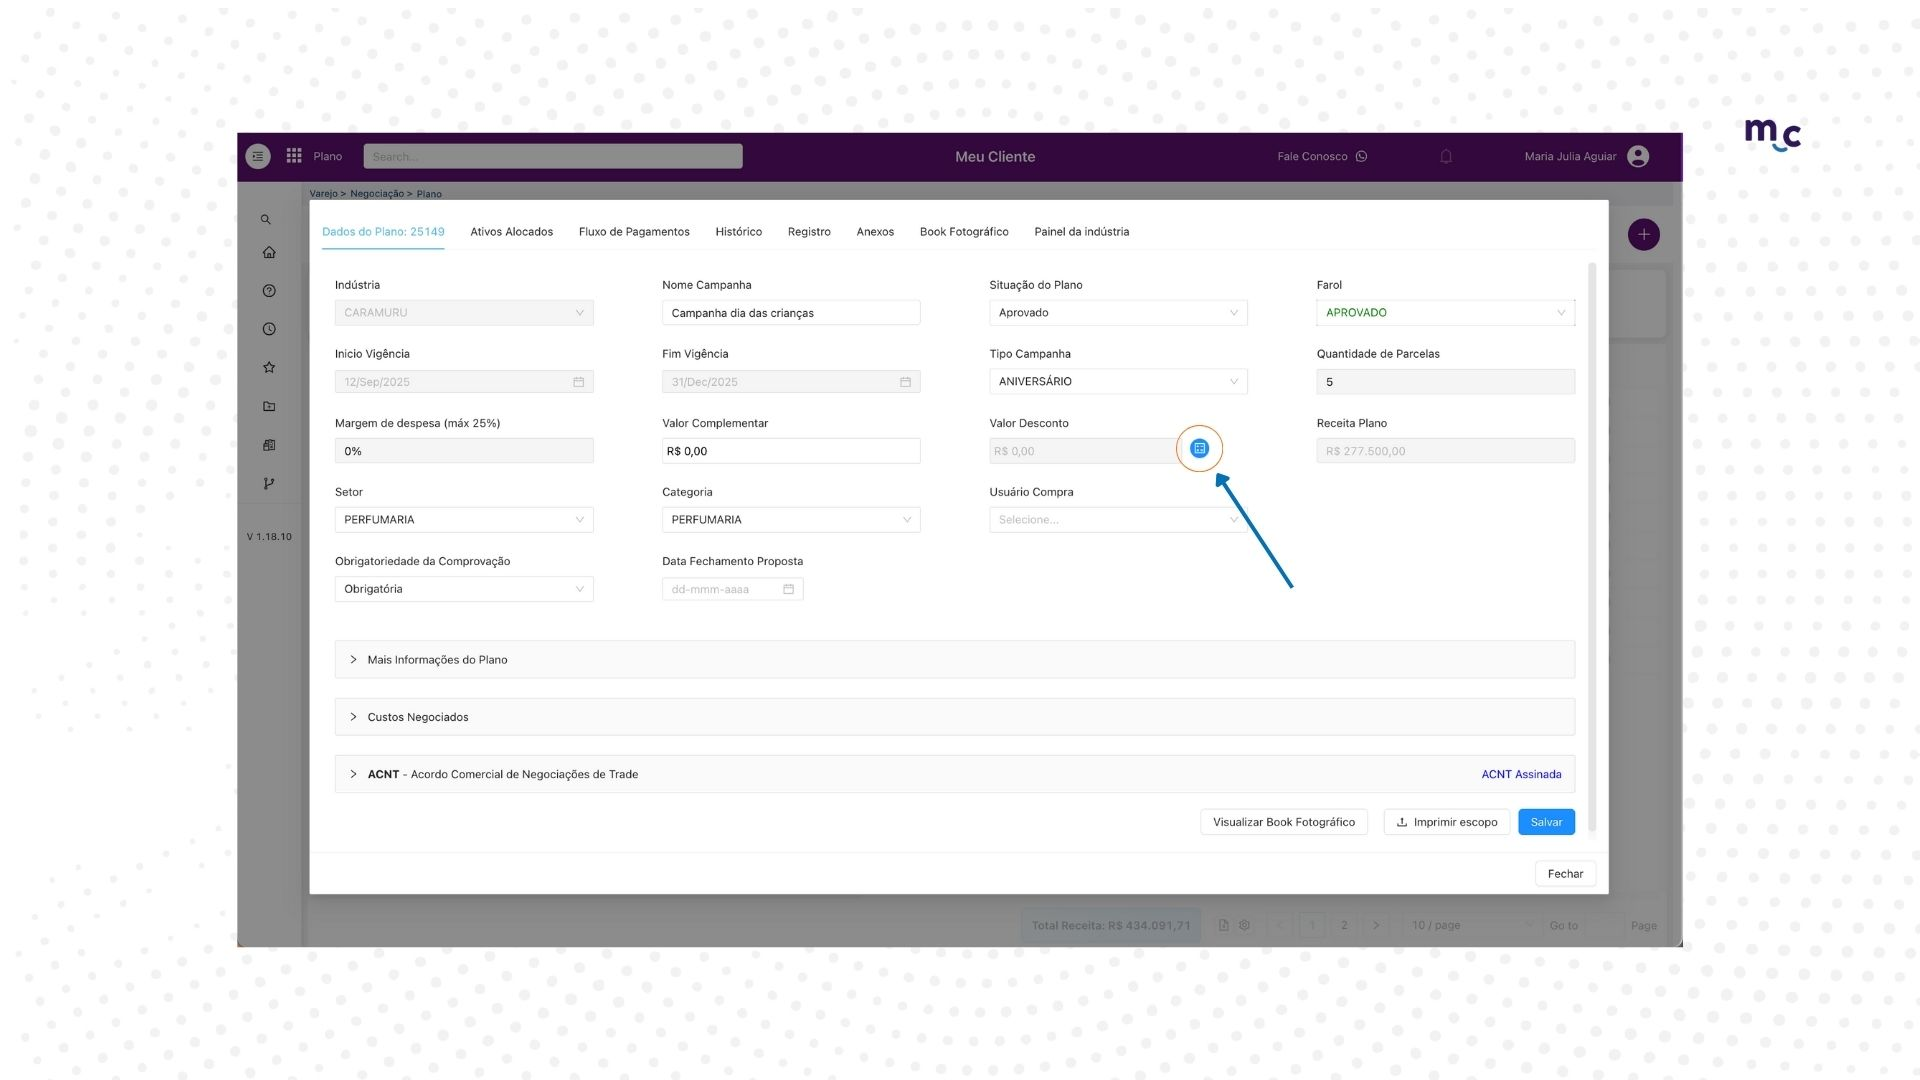
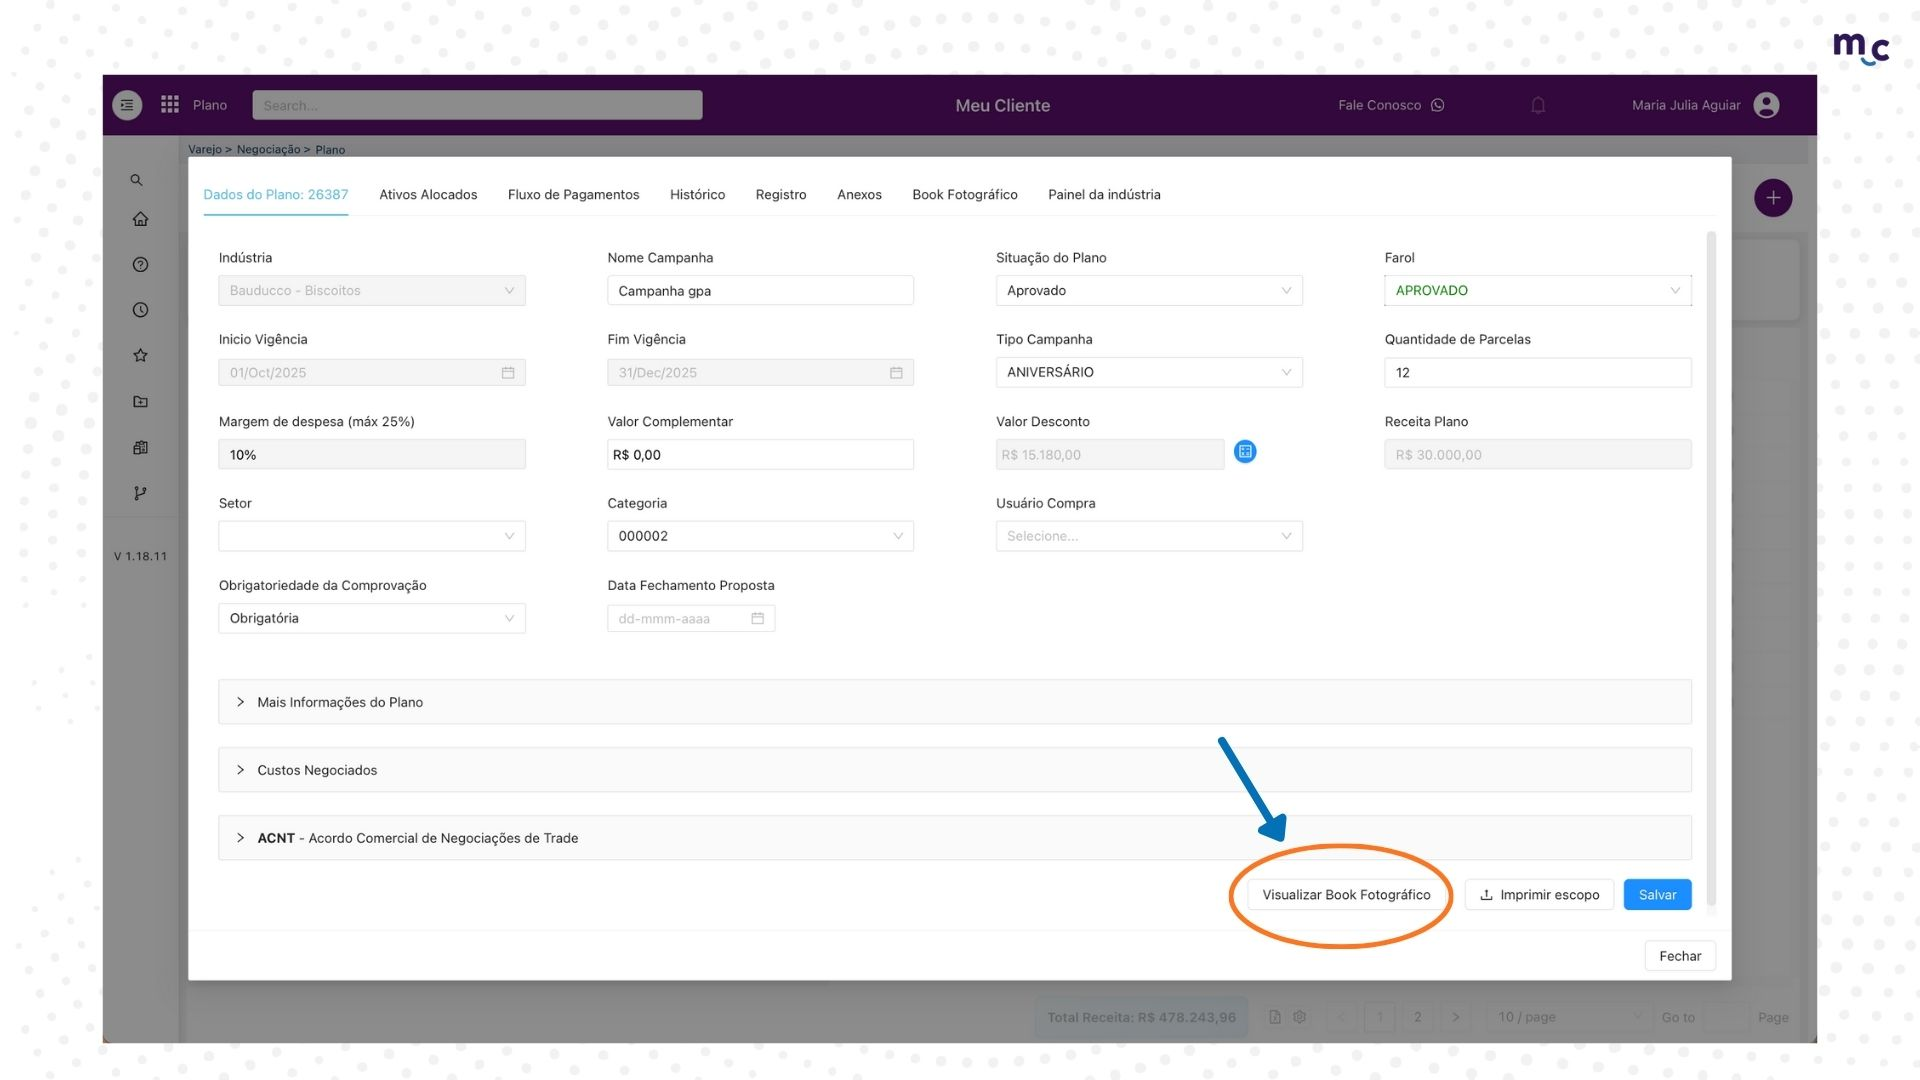
GITBOOK-87: No subject

diff --git a/docs/novidades-da-plataforma/fila-de-pdf-do-book-fotografico.md b/docs/novidades-da-plataforma/fila-de-pdf-do-book-fotografico.md
@@ -1,9 +1,15 @@
 ---
-description: Visualize e compartilhe suas execuções
+description: Visualize e compartilhe suas execuções mais fácil e mais rápido.
 icon: file-pdf
 ---
 
 # Fila de PDF do Book Fotográfico
 
-Essa funcionalidade foi criada para **reunir em um único arquivo todas as comprovações executadas e aprovadas**, organizadas por **loja e data**. Ao **selecionar a data de início e fim**, o sistema gera automaticamente o PDF, facilitando **a análise geral das ações e o envio rápido para a indústria.** ✅
+Essa funcionalidade foi criada para reunir em **um único arquivo** todas as comprovações executadas e comprovadas de um plano, organizadas por loja e data. Ao selecionar a data de início e fim, o sistema gera automaticamente o PDF, facilitando a análise geral das ações. ✅
+
+
+
+1. Já com o seu plano aberto, na aba de "Dados do plano", clique em visualizar book fotográfico ↓
+
+<figure><img src="../.gitbook/assets/1.jpg" alt=""><figcaption></figcaption></figure>
 
